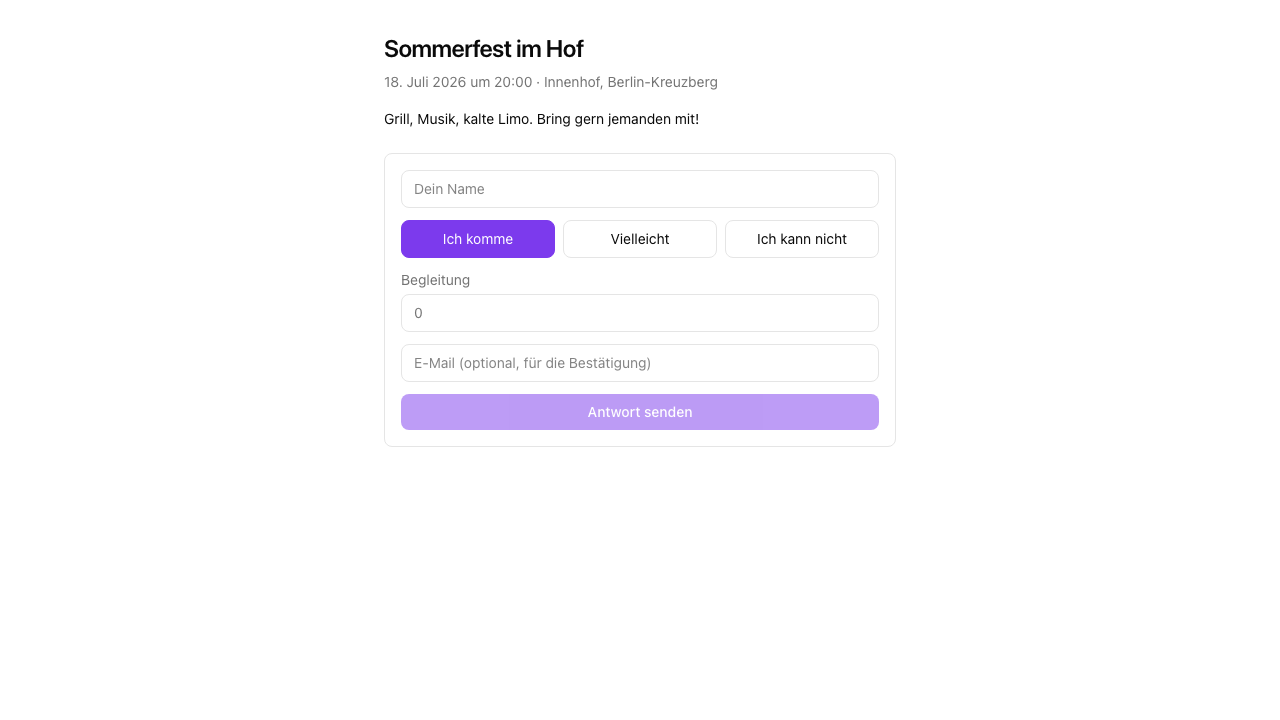
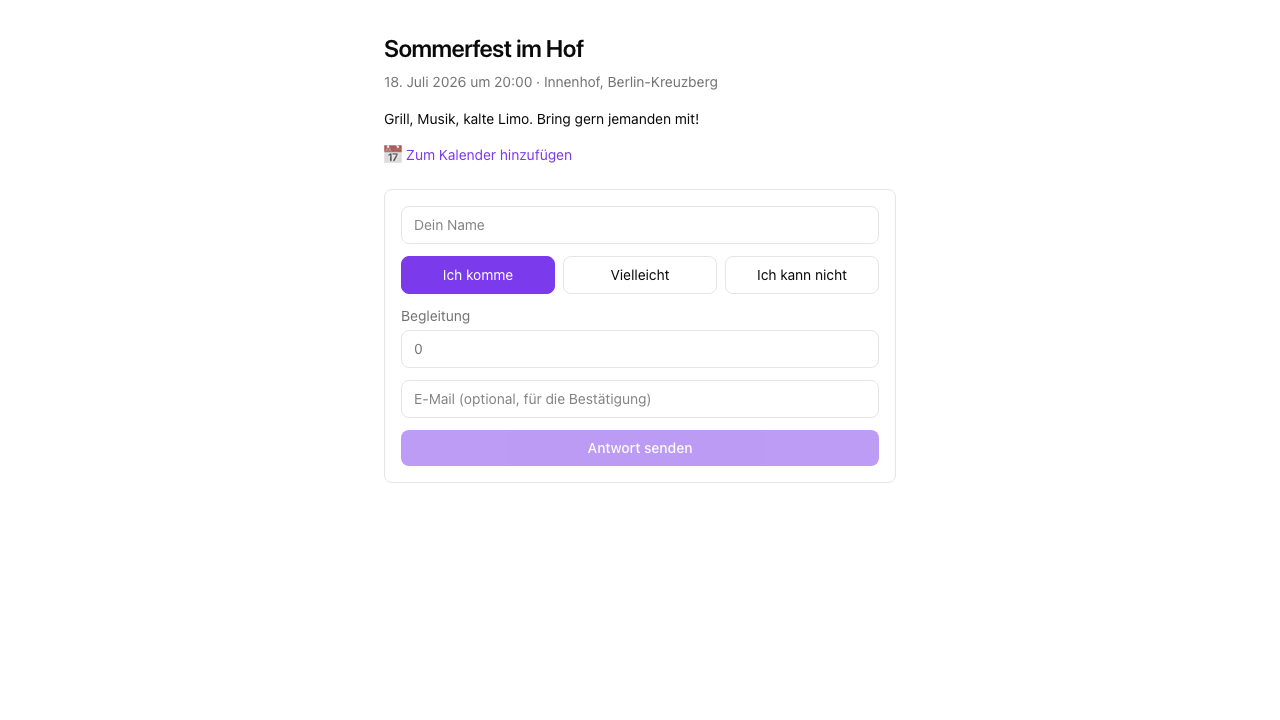
Feature: .ics Add-to-Calendar link on the public event page (+ unit test)

Changed region(s): [[0.3125, 0.3056, 0.6875, 0.6722], [0.2812, 0.1833, 0.4375, 0.275]]

diff --git a/src/public/ics.ts b/src/public/ics.ts
@@ -1,0 +1,48 @@
+// "Zum Kalender hinzufügen" — ein Standard-VCALENDAR, clientseitig als
+// data-URI generiert. Kein Server-Endpoint, kein Signing: ein .ics ist
+// nur Text, und der Browser lädt ihn direkt herunter.
+
+import type { PublicEvent } from "./api";
+
+// ISO → ICS-Zeitstempel: 2026-07-18T18:00:00.000Z → 20260718T180000Z
+function icsDate(iso: string): string {
+  return new Date(iso)
+    .toISOString()
+    .replace(/[-:]/g, "")
+    .replace(/\.\d{3}/, "");
+}
+
+// ICS-Textwerte escapen: Backslash, Semikolon, Komma, Newline.
+function esc(value: string): string {
+  return value
+    .replace(/\\/g, "\\\\")
+    .replace(/[;,]/g, (m) => `\\${m}`)
+    .replace(/\n/g, "\\n");
+}
+
+export function buildIcs(event: PublicEvent): string {
+  // Default-Dauer 2h — das Event-Modell hält nur startsAt; ein End-Feld
+  // wäre ein eigener Schritt, falls jemand es braucht.
+  const end = new Date(new Date(event.startsAt).getTime() + 2 * 60 * 60 * 1000).toISOString();
+  return [
+    "BEGIN:VCALENDAR",
+    "VERSION:2.0",
+    "PRODID:-//show-pony//EN",
+    "BEGIN:VEVENT",
+    `UID:${event.id}@show-pony`,
+    `DTSTAMP:${icsDate(event.startsAt)}`,
+    `DTSTART:${icsDate(event.startsAt)}`,
+    `DTEND:${icsDate(end)}`,
+    `SUMMARY:${esc(event.title)}`,
+    event.location ? `LOCATION:${esc(event.location)}` : "",
+    event.description ? `DESCRIPTION:${esc(event.description)}` : "",
+    "END:VEVENT",
+    "END:VCALENDAR",
+  ]
+    .filter(Boolean)
+    .join("\r\n");
+}
+
+export function icsHref(event: PublicEvent): string {
+  return `data:text/calendar;charset=utf-8,${encodeURIComponent(buildIcs(event))}`;
+}

diff --git a/src/public/__tests__/ics.test.ts b/src/public/__tests__/ics.test.ts
@@ -1,0 +1,32 @@
+import { describe, expect, test } from "bun:test";
+import type { PublicEvent } from "../api";
+import { buildIcs } from "../ics";
+
+const EVENT: PublicEvent = {
+  id: "e1",
+  title: "Grill, Musik; Spaß",
+  slug: "sommerfest",
+  startsAt: "2026-07-18T18:00:00.000Z",
+  location: "Innenhof, Berlin",
+  description: "Bring jemanden mit",
+  guestLimit: 60,
+};
+
+describe("buildIcs", () => {
+  const ics = buildIcs(EVENT);
+
+  test("formats the timestamp as a UTC ICS date", () => {
+    expect(ics).toContain("DTSTART:20260718T180000Z");
+    expect(ics).toContain("DTEND:20260718T200000Z"); // +2h default
+  });
+
+  test("escapes commas and semicolons in text fields", () => {
+    expect(ics).toContain("SUMMARY:Grill\\, Musik\\; Spaß");
+    expect(ics).toContain("LOCATION:Innenhof\\, Berlin");
+  });
+
+  test("is a well-formed VCALENDAR", () => {
+    expect(ics.startsWith("BEGIN:VCALENDAR\r\n")).toBe(true);
+    expect(ics.endsWith("\r\nEND:VCALENDAR")).toBe(true);
+  });
+});

diff --git a/src/public/EventPage.tsx b/src/public/EventPage.tsx
@@ -4,6 +4,7 @@
 
 import { type ReactElement, useEffect, useState } from "react";
 import { fetchEventBySlug, type PublicEvent } from "./api";
+import { icsHref } from "./ics";
 import { RsvpForm } from "./RsvpForm";
 
 function slugFromPath(): string {
@@ -48,6 +49,13 @@ export function EventPage(): ReactElement {
           {event.description}
         </p>
       ) : null}
+      <a
+        href={icsHref(event)}
+        download={`${event.slug}.ics`}
+        className="mt-4 inline-block text-sm text-[var(--color-primary)] hover:underline"
+      >
+        📅 Zum Kalender hinzufügen
+      </a>
       <RsvpForm eventId={event.id} />
     </main>
   );

diff --git a/docs/tutorial/06-add-to-calendar.md b/docs/tutorial/06-add-to-calendar.md
@@ -1,0 +1,48 @@
+# Zum Kalender hinzufügen — ein .ics ohne Server
+
+Ein „Add to Calendar"-Button braucht weder einen Server-Endpoint noch eine
+Library. Ein `.ics` ist nur Text im VCALENDAR-Format, und der Browser lädt
+ihn direkt als data-URI herunter.
+
+```ts
+export function buildIcs(event: PublicEvent): string {
+  const end = new Date(new Date(event.startsAt).getTime() + 2 * 60 * 60 * 1000).toISOString();
+  return [
+    "BEGIN:VCALENDAR",
+    "VERSION:2.0",
+    "PRODID:-//show-pony//EN",
+    "BEGIN:VEVENT",
+    `UID:${event.id}@show-pony`,
+    `DTSTAMP:${icsDate(event.startsAt)}`,
+    `DTSTART:${icsDate(event.startsAt)}`,
+    `DTEND:${icsDate(end)}`,
+    `SUMMARY:${esc(event.title)}`,
+    event.location ? `LOCATION:${esc(event.location)}` : "",
+    event.description ? `DESCRIPTION:${esc(event.description)}` : "",
+    "END:VEVENT",
+    "END:VCALENDAR",
+  ].filter(Boolean).join("\r\n");
+}
+```
+
+Zwei Stolpersteine machen das Feature non-trivial — und sind genau das, was
+der Mini-Test pinnt:
+
+- **Zeitstempel:** ICS will UTC als `YYYYMMDDTHHMMSSZ`. Aus dem ISO-String
+  `2026-07-18T18:00:00.000Z` wird `20260718T180000Z` (Bindestriche,
+  Doppelpunkte und Millisekunden raus).
+- **Escaping:** Komma, Semikolon, Backslash und Newline müssen in Textfeldern
+  mit `\` escaped werden — sonst zerbricht ein Titel wie „Grill, Musik" die
+  Datei.
+
+Auf der Event-Page ist es ein Link, kein Button-mit-Fetch:
+
+```tsx
+<a href={icsHref(event)} download={`${event.slug}.ics`}>
+  📅 Zum Kalender hinzufügen
+</a>
+```
+
+`icsHref` packt das VCALENDAR in einen `data:text/calendar`-URI; das
+`download`-Attribut gibt dem File einen Namen. Kein State, kein Request —
+der Klick lädt die Datei, das Betriebssystem öffnet den Kalender.